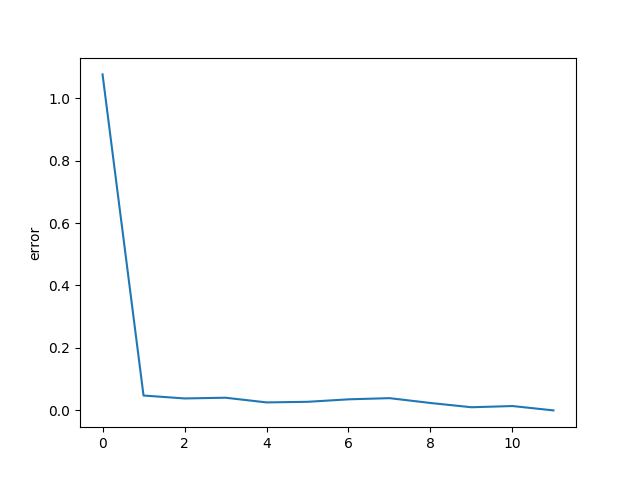
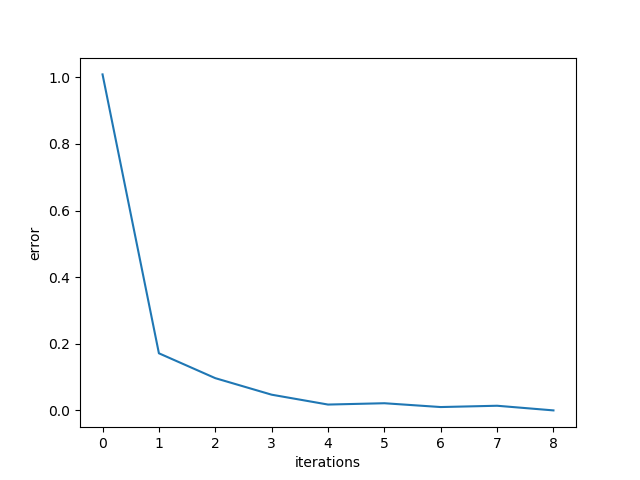
kmeans tweaks

diff --git a/kmeans/kmeans.py b/kmeans/kmeans.py
@@ -34,16 +34,18 @@ def kmeans(dataset, k):
             cluster_assigned = get_closest_cluster(i, k, centroids)
             clusters[cluster_assigned].append(i)
 
-        for i, c in enumerate(range(k)):
+        for c in range(k):
             centroids[c] = compute_centroids(clusters[c])
             print(centroids[c])
         
         error = get_centroid_error(centroids, c_old)
         errors.append(error)
-        c_old = deepcopy(centroids)
 
         if error == 0:
             break
+
+        c_old = deepcopy(centroids)
+
 
     return centroids, clusters, errors
 
@@ -76,7 +78,7 @@ def plot_data(data, centroids, clusters):
 
     colors=['b', 'g', 'y']
     for c in clusters:
-        for j, x in enumerate(clusters[c]):
+        for x in clusters[c]:
             ax.scatter(x[0], x[1], s=7, c=colors[c])
     
     ax.scatter(centroids[:,0], centroids[:,1], marker='*', s=150, c='r', label='centroid')
@@ -89,6 +91,7 @@ def plot_error(error_data):
     plt.figure()
     plt.plot(error_data)
     plt.ylabel("error")
+    plt.xlabel("iterations")
     plt.savefig(os.path.join('images', 'kmean_error.png'))
 
 
